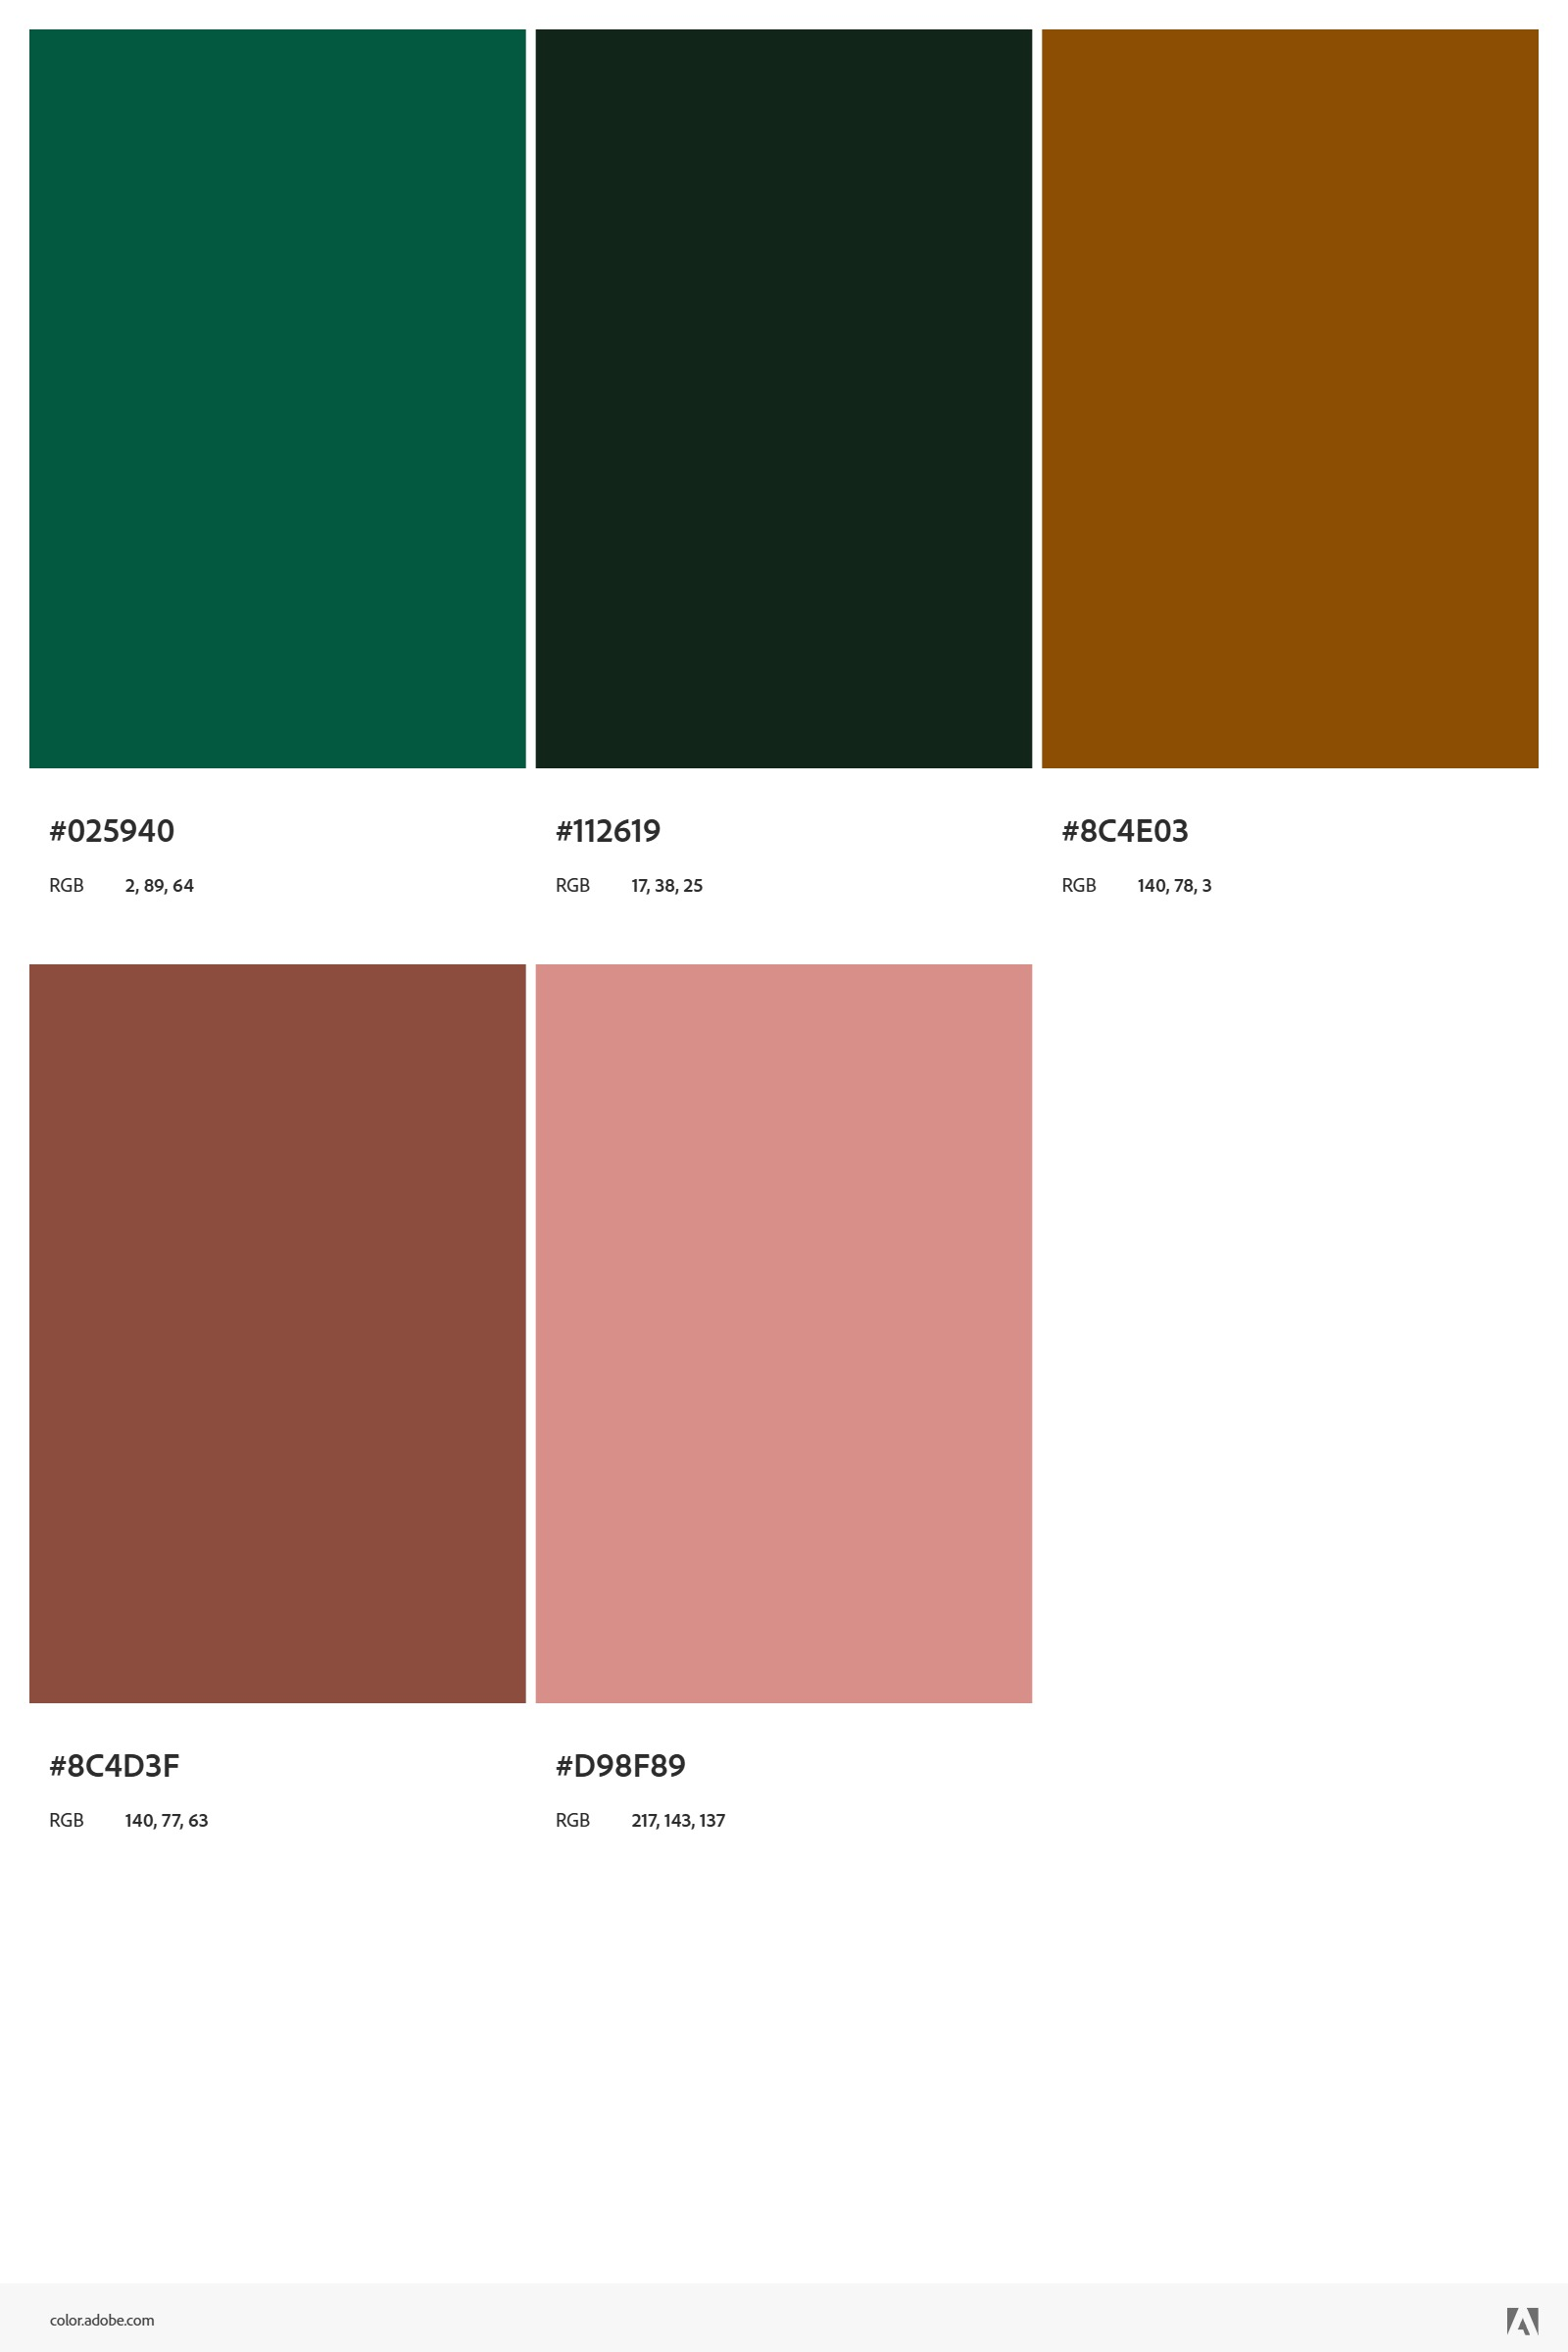
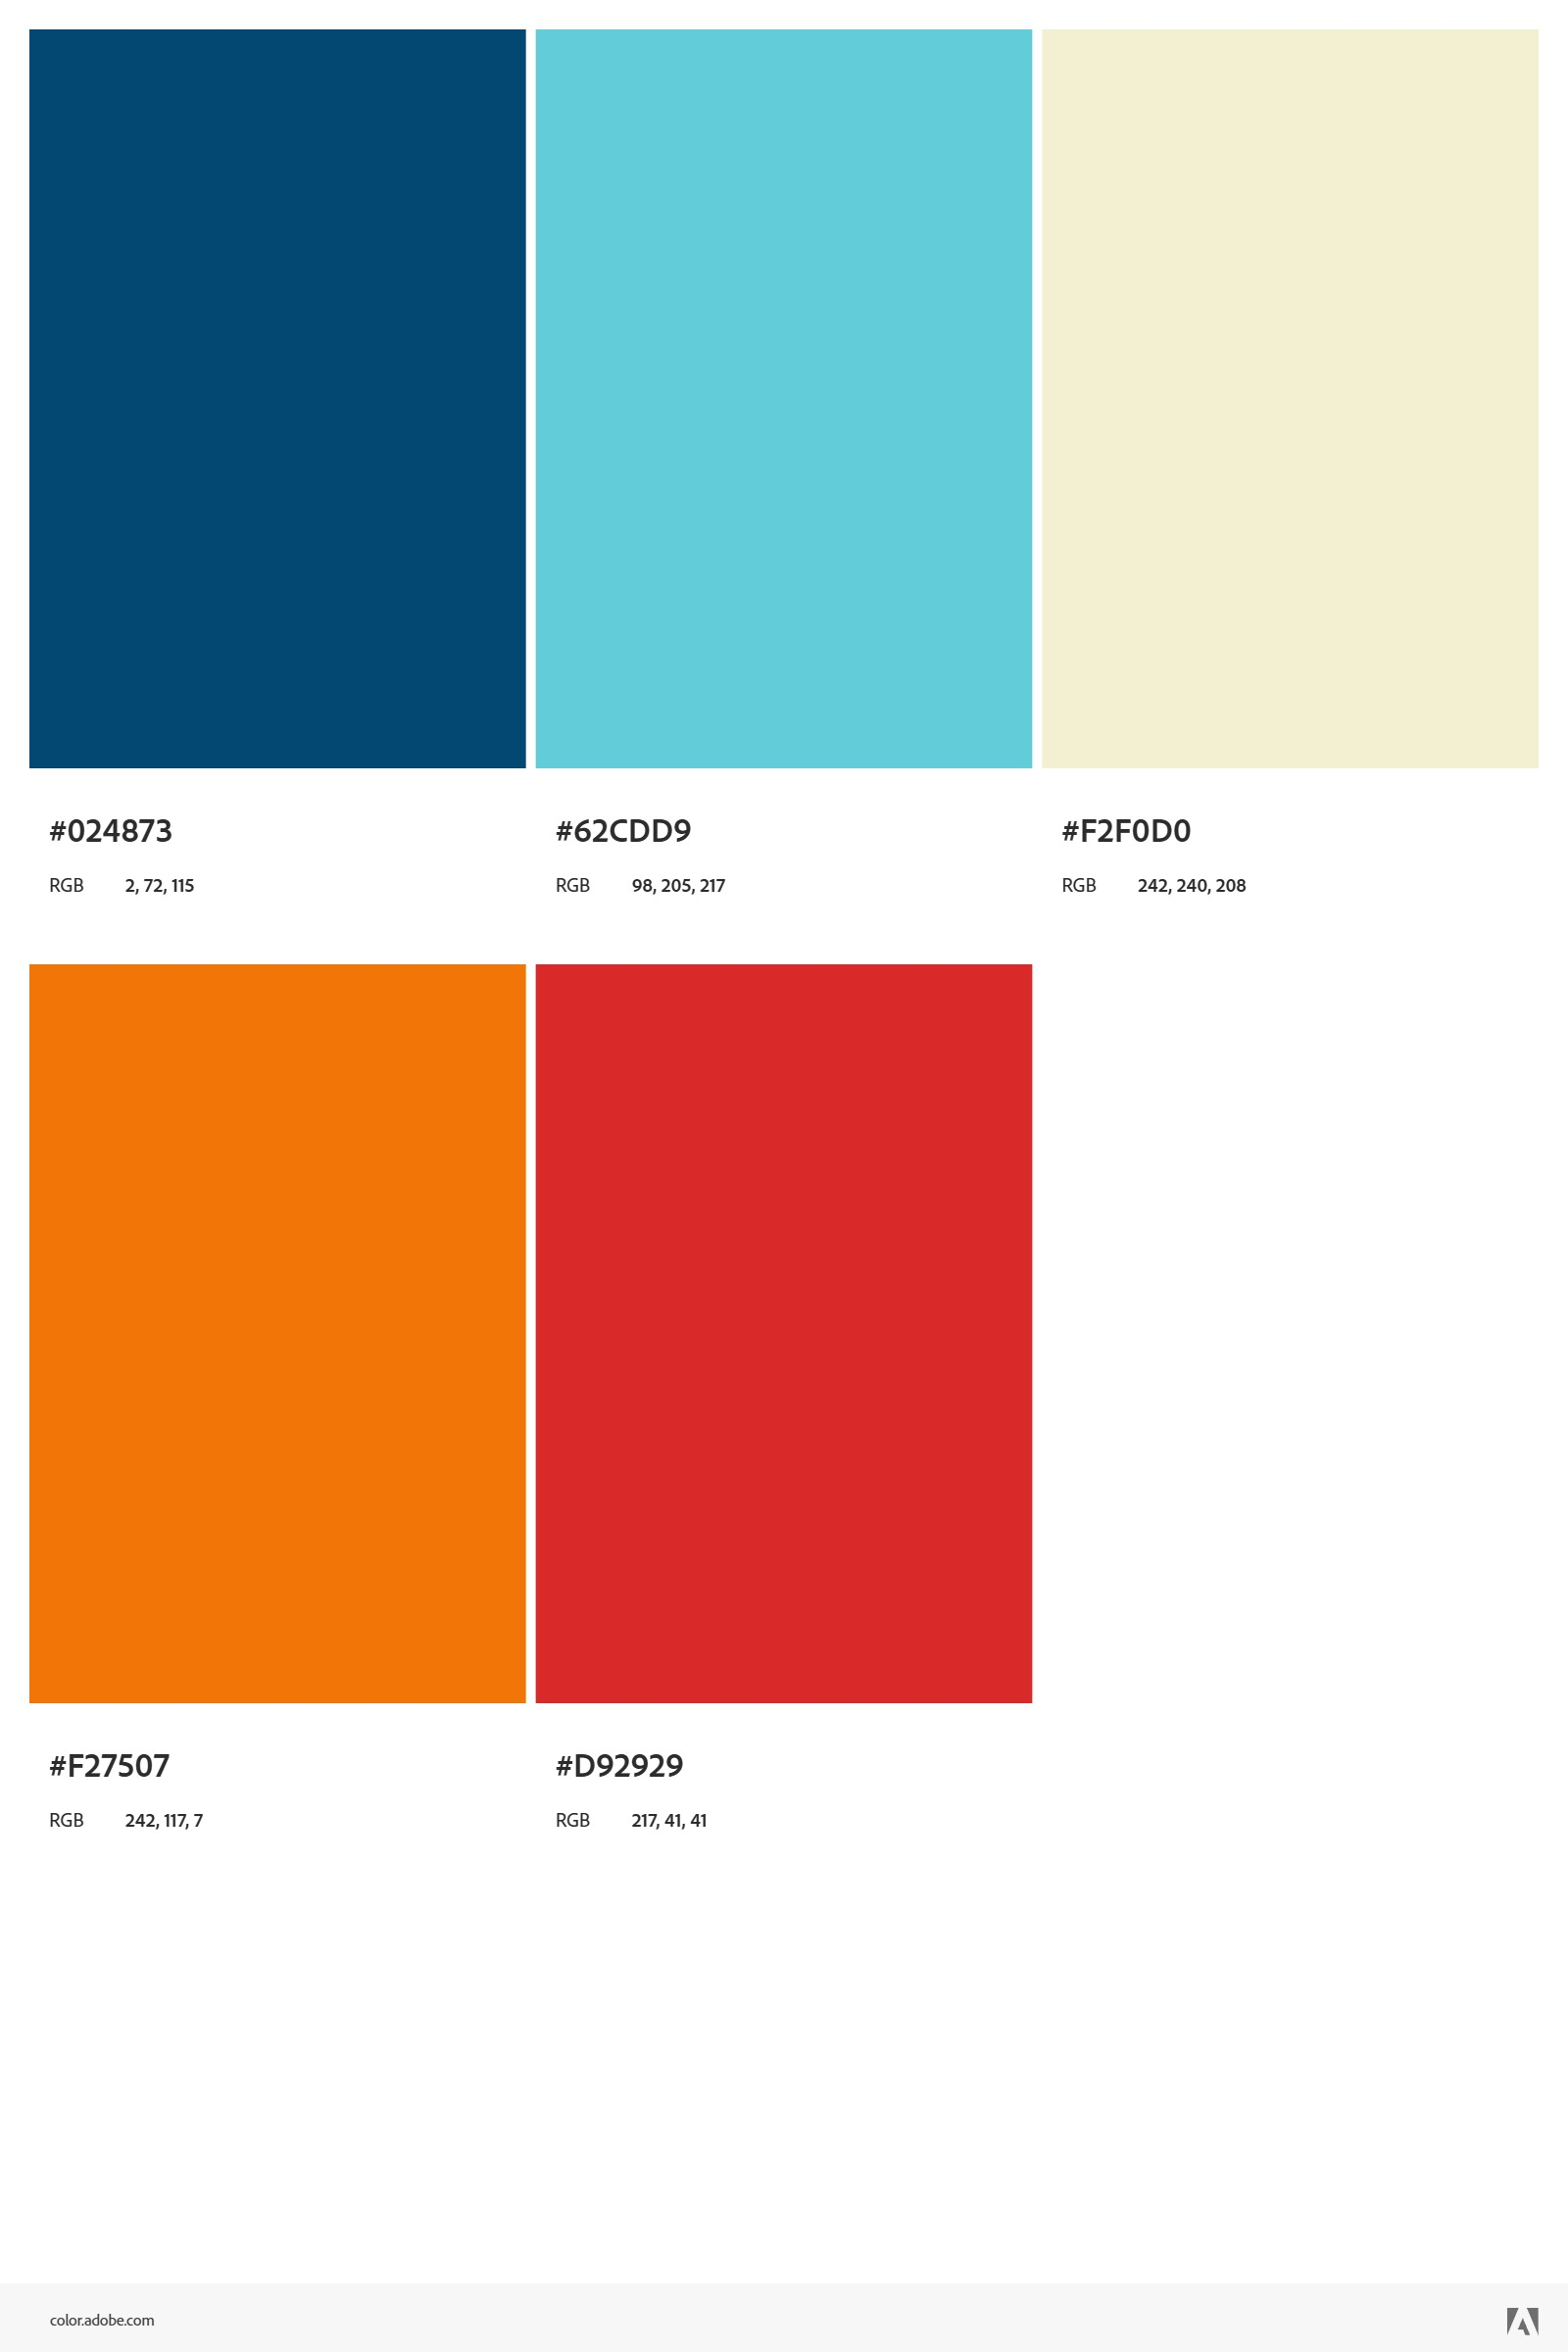
set up initial CSS
changed color pallet and started CSS

diff --git a/styles.css b/styles.css
@@ -1,13 +1,95 @@
 /* CSS by Thomas Karl */
 /* Color Pallet
-mid-green: #025940
-deep-green: #112619
-mid-brown: #8C4E03
-reddish-brown: #8C4D3F
-dusty-rose: #D98F89
+dark-blue: #024873
+light-blue: #62CDD9
+cream: #F2F0D0
+mid-orange: #F27507
+mid-red: #D92929
 */
 
 /* GLOBAL STYLES - MOBILE FIRST */
 body {
-    background-color: #D98F89;
+    font-family: "Helvetica", "Arial", sans-serif;
+    margin: 0;
+    background-color: white;
+    color: black;
+    display: grid;
+    grid-template-columns: 1fr;
+}
+
+header {
+    font-family: "Verdana", "Arial", sans-serif;
+    background-color: #024873;
+    color: #F2F0D0;
+    text-align: center;
+    padding: 0.5rem;
+    border-bottom: 10px solid #62CDD9;
+}
+
+header h1 {
+    margin: 1rem 0 0.5rem 0;
+}
+
+header p {
+    margin-top: 0.5rem;
+    color: #62CDD9;
+    font-size: 1.25rem;
+}
+
+nav {
+    background-color: #F2F0D0;    
+    border-top: 5px solid #F27507;
+    border-bottom: 10px solid #024873;
+}
+
+nav ul {
+    list-style: none;
+    margin: 0;
+    padding: 0;
+}
+
+nav a {
+    padding: 0.5rem;
+    margin: .25rem;
+}
+
+main {
+    padding: 1rem;
+    border-top: 5px solid #D92929;
+    border-bottom: 5px solid #F27507;
+}
+
+a {
+    display: block;
+    background-color: #F2F0D0;
+    color: #F27507;
+    padding: 1rem;
+    text-decoration: none;
+    text-align: center;
+    font-weight: bold;
+}
+
+a:hover {
+    background-color: #D92929;
+    color: #F2F0D0;
+}
+
+img {
+    display: flex;
+    margin: 0 auto;
+}
+
+section {
+    margin: 1rem 0;
+    border: 5px solid #024873;
+    padding: 1rem;
+    background-color: #62CDD9;
+}
+
+footer {
+    background-color: #024873;
+    color: #F2F0D0;
+    text-align: center;
+    padding: 0.5rem;
+    border-top: 10px solid #62CDD9;
 }

diff --git a/index.html b/index.html
@@ -8,7 +8,8 @@
 </head>
 <body>
     <header>
-        <h1>Thomas Karl's Portfolio</h1>
+        <h1>Thomas Karl</h1>
+        <p>My Portfolio</p>
     </header>
     <nav>
         <ul>
@@ -19,10 +20,11 @@
         </ul>
     </nav>
     <main>
-        <div>
+        <img src="thomas_karl_colors.png" width="450" alt="A picture of Thomas Karl"> <!-- To be expanded upon later -->
+        <div class="card-row">
             <section>
                 <h2>About Me</h2>
-                <p>Learn all about me.</p>
+                <p>Learn about how awesome I am.</p>
                 <a href="about.html">About</a>
             </section>
             <section>

diff --git a/projects.html b/projects.html
@@ -4,7 +4,7 @@
     <meta charset="UTF-8">
     <meta name="viewport" content="width=device-width, initial-scale=1.0">
     <link rel="stylesheet" href="styles.css">
-    <title>Thomas Karl's Projects</title>
+    <title>Projects- Thomas Karl</title>
 </head>
 <body>
     <header>
@@ -21,11 +21,11 @@
     <main>
         <section>
             <h2>Project 1: Website for Trans Pride of Mobile</h2>
-            <p>This is website I built for Trans Pride of Mobile, built using HTML and CSS.</p>
+            <p>This is website I am currently working on for Trans Pride of Mobile, built using HTML and CSS. It's not quite finished yet, but I'm making good progress!</p>
         </section>
         <section>
             <h2>Project 2: I'm sure I'll have a second project at some unspecified point in the future.</h2>
-            <p>This will be an amazing project that will show of all of my amazing web development skills.</p>
+            <p>This will be an amazing project that will show off all of my amazing web development skills.</p>
         </section>
     </main>
     <footer>

diff --git a/about.html b/about.html
@@ -4,7 +4,7 @@
     <meta charset="UTF-8">
     <meta name="viewport" content="width=device-width, initial-scale=1.0">
     <link rel="stylesheet" href="styles.css">
-    <title>About Thomas Karl</title>
+    <title>About- Thomas Karl</title>
 </head>
 <body>
     <header>

diff --git a/resume.html b/resume.html
@@ -5,7 +5,7 @@
     <meta charset="UTF-8">
     <meta name="viewport" content="width=device-width, initial-scale=1.0">
     <link rel="stylesheet" href="styles.css">
-    <title>Thomas Karl's Resume</title>
+    <title>Resume- Thomas Karl</title>
 </head>
 
 <body>